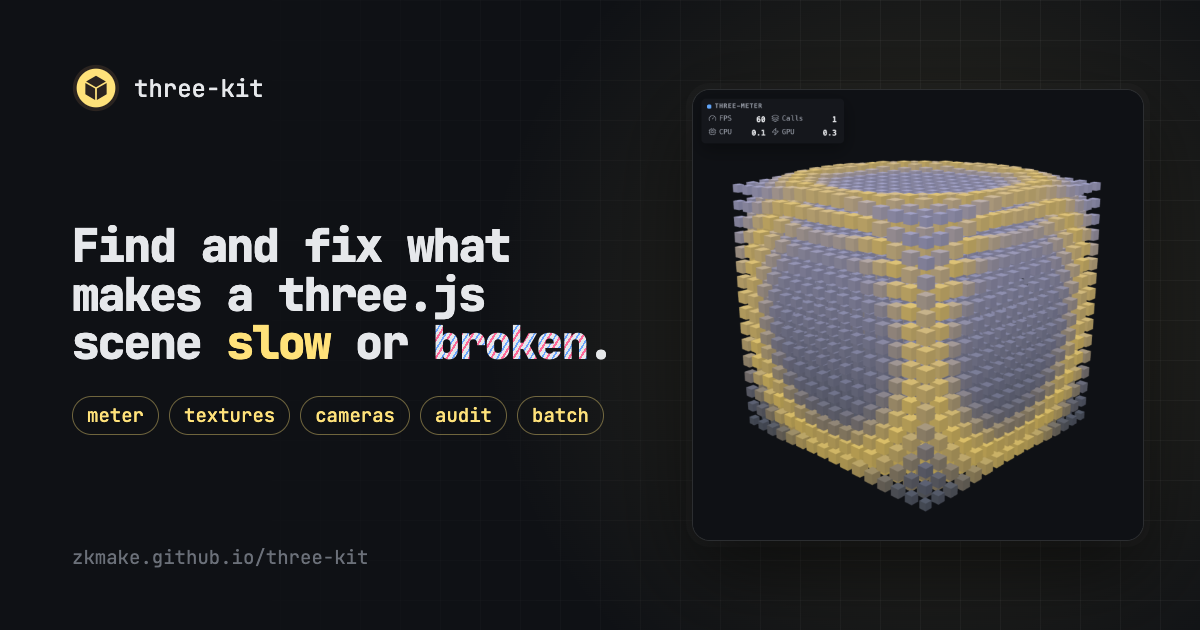
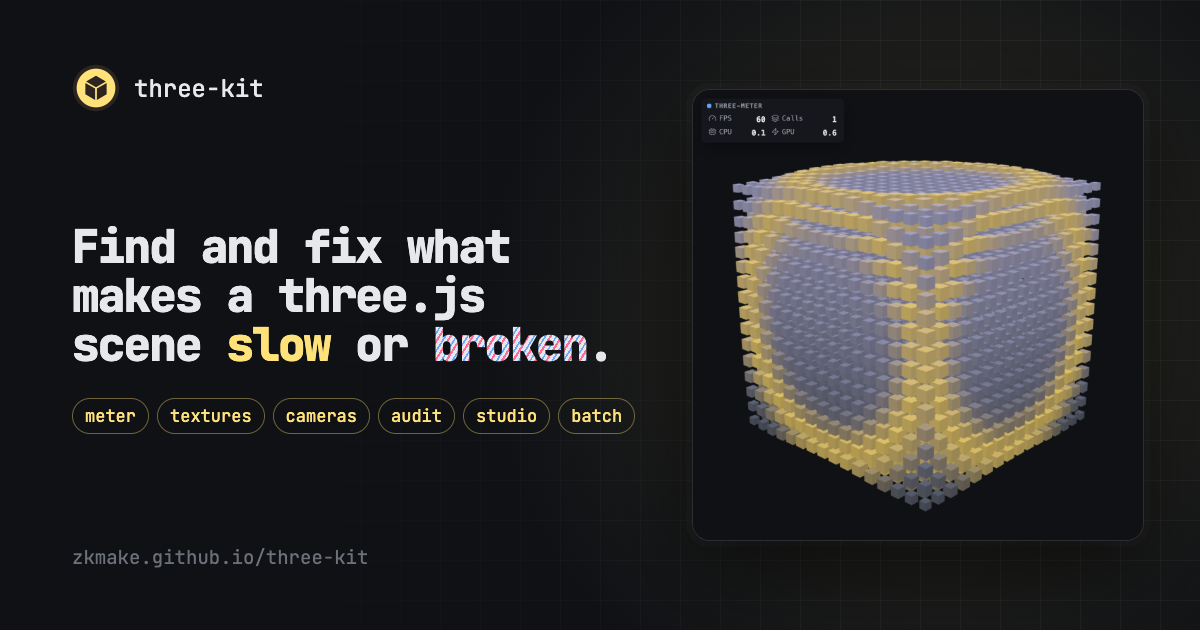
feat(site): three-studio share image; kit card's six tags on one row

diff --git a/apps/site/scripts/make-og.ts b/apps/site/scripts/make-og.ts
@@ -69,7 +69,7 @@ const CARDS: Card[] = [
     dir: "three-studio",
     title: "three-studio",
     lede: "Mockup and model studio pages: views from the URL, shots saved and diffed.",
-    tags: ["areas", "variants", "views", "shots", "vanilla", "R3F"],
+    tags: ["areas", "variants", "shots", "vanilla", "R3F"],
   },
   {
     dir: "three-batch",
@@ -261,6 +261,9 @@ const page = (card: Card) => `<!doctype html>
     box-shadow: 0 30px 80px rgba(0, 0, 0, 0.55), 0 0 0 6px rgba(255, 255, 255, 0.02);
   }
   .picture img { display: block; width: 100%; height: 100%; object-fit: cover; }
+  /* The kit's tags name every package: a little smaller and wider, so they stay one row. */
+  .kit-card .tags { width: 600px; gap: 8px; }
+  .kit-card .tags li { padding: 6px 12px; font-size: 17px; }
   /* The kit's scene is square. */
   .kit-card .picture { width: 452px; aspect-ratio: 1; background: #0f1115; }
 </style>
